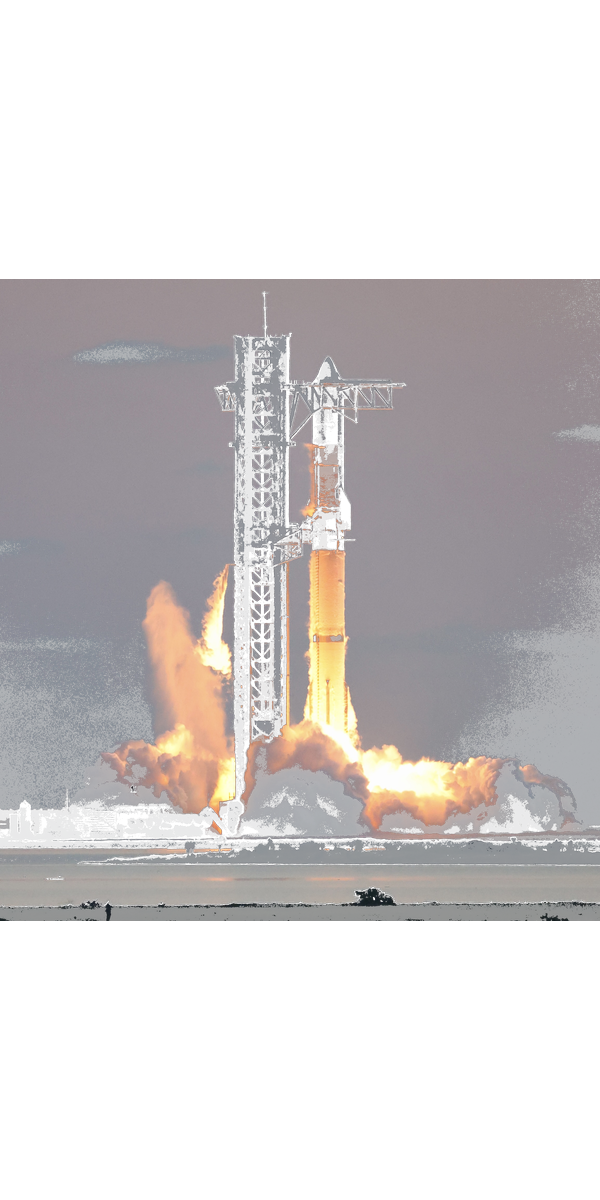
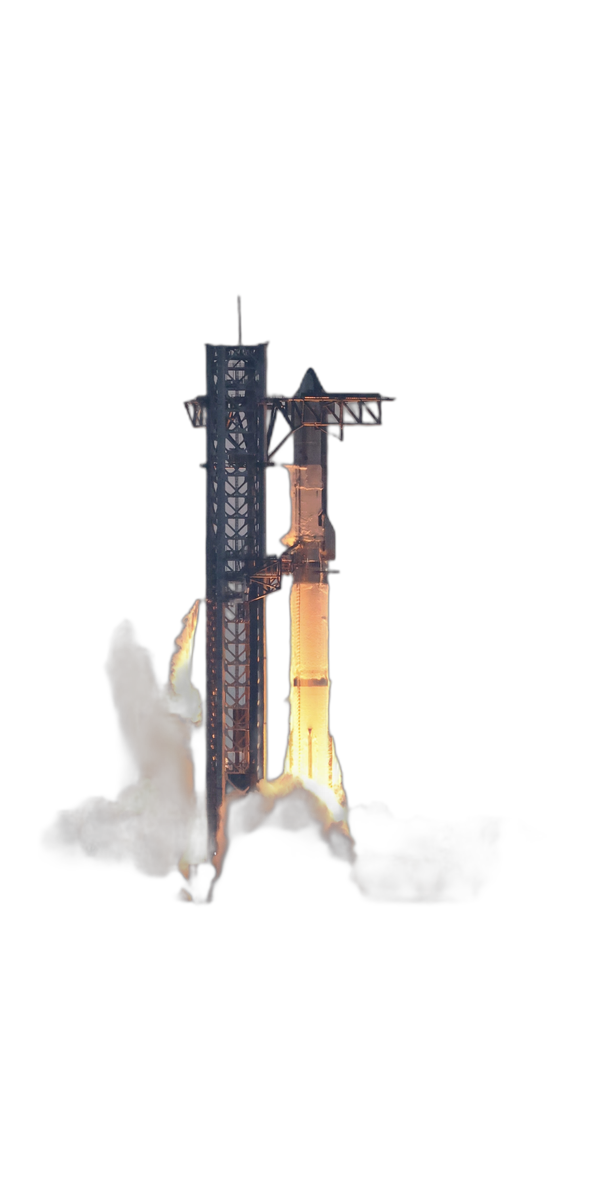
🚀 火箭照片去背 v3.7：3 個去背失敗重做
- falcon: rembg 去藍天 (25% → 75% 透明)
- block3: rembg 去水面 (47% → 86% 透明)
- mars: rembg + 火星色彩轉換 (16% → 93% 透明)

diff --git a/assets/rockets/_reprocess_v37.py b/assets/rockets/_reprocess_v37.py
@@ -1,0 +1,139 @@
+"""
+v3.7 重做 3 個去背失敗的火箭照片
+- falcon: rembg AI 去藍天
+- block3: rembg AI 去水面
+- mars: 重做色彩轉換 + rembg 去背
+"""
+from rembg import remove
+from PIL import Image, ImageEnhance, ImageFilter
+import os
+import io
+
+RAW = r'D:\game\assets\rockets\raw'
+OUT = r'D:\game\assets\rockets\processed'
+
+TARGET_W, TARGET_H = 600, 1200
+
+
+def fit_to_target(img, target_w, target_h):
+    """縮放並置中到透明畫布"""
+    if img.mode == 'RGBA':
+        alpha = img.split()[-1]
+        bbox = alpha.getbbox()
+        if bbox:
+            img = img.crop(bbox)
+    w, h = img.size
+    if w == 0 or h == 0:
+        return img
+    scale = min(target_w / w, target_h / h)
+    new_w = int(w * scale)
+    new_h = int(h * scale)
+    img = img.resize((new_w, new_h), Image.LANCZOS)
+    canvas = Image.new('RGBA', (target_w, target_h), (0, 0, 0, 0))
+    x = (target_w - new_w) // 2
+    y = (target_h - new_h) // 2
+    canvas.paste(img, (x, y), img)
+    return canvas
+
+
+# ============================================================
+# 1. FALCON - rembg AI 去藍天
+# ============================================================
+print('=== 1/3 FALCON ===')
+src = os.path.join(RAW, 'falcon9_ses10.png')
+with open(src, 'rb') as f:
+    data = f.read()
+img = Image.open(io.BytesIO(data)).convert('RGB')
+print(f'來源: {img.size}')
+try:
+    result = remove(img)
+    print('  ✅ rembg 成功')
+    result = fit_to_target(result, TARGET_W, TARGET_H)
+    result.save(os.path.join(OUT, 'rocket_falcon.png'), 'PNG', optimize=True)
+    print('  ✅ 儲存 rocket_falcon.png')
+except Exception as e:
+    print(f'  ❌ 失敗: {e}')
+
+
+# ============================================================
+# 2. BLOCK3 - rembg AI 去水面
+# ============================================================
+print()
+print('=== 2/3 BLOCK3 (IFT-5) ===')
+src = os.path.join(RAW, 'starship_ift5.jpg')
+with open(src, 'rb') as f:
+    data = f.read()
+img = Image.open(io.BytesIO(data)).convert('RGB')
+print(f'來源: {img.size}')
+try:
+    result = remove(img)
+    print('  ✅ rembg 成功')
+    result = fit_to_target(result, TARGET_W, TARGET_H)
+    result.save(os.path.join(OUT, 'rocket_starship_block3.png'), 'PNG', optimize=True)
+    print('  ✅ 儲存 rocket_starship_block3.png')
+except Exception as e:
+    print(f'  ❌ 失敗: {e}')
+
+
+# ============================================================
+# 3. MARS - 色彩轉換 + rembg 去背
+# ============================================================
+print()
+print('=== 3/3 MARS (IFT-2 火星版) ===')
+src = os.path.join(RAW, 'starship_ift2.jpg')
+with open(src, 'rb') as f:
+    data = f.read()
+img = Image.open(io.BytesIO(data)).convert('RGB')
+print(f'來源: {img.size}')
+
+# 步驟 1: rembg 去背（先去掉天空/雲）
+try:
+    img = remove(img)
+    print('  ✅ rembg 成功（先去背）')
+except Exception as e:
+    print(f'  ⚠️ rembg 失敗: {e}，改用色彩轉換')
+
+# 步驟 2: 將剩餘背景轉火星紅橘
+# 火箭本體銀色會保留，透明區域塗上紅橘色再變回透明
+# 簡化做法：直接在 RGBA 上對 RGB 通道做色彩轉換
+if img.mode == 'RGBA':
+    pixels = img.load()
+    w, h = img.size
+    for y in range(h):
+        for x in range(w):
+            r, g, b, a = pixels[x, y]
+            if a == 0:
+                # 透明區域保留透明
+                continue
+            # 識別非火箭像素：亮度高、飽和度低（雲/煙）
+            brightness = (r + g + b) / 3
+            max_c = max(r, g, b)
+            min_c = min(r, g, b)
+            saturation = (max_c - min_c) / max(max_c, 1)
+            # 灰白煙/雲特徵：亮度 > 120 且飽和度 < 0.4
+            if brightness > 100 and saturation < 0.45:
+                # 灰白 → 火星紅橘煙塵
+                nr = min(255, int(brightness * 1.4 + 40))
+                ng = min(255, int(brightness * 0.7))
+                nb = min(255, int(brightness * 0.4))
+                pixels[x, y] = (nr, ng, nb, int(a * 0.85))
+            # 藍天特徵：B > R + 20
+            elif b > r + 15 and b > g:
+                nr = min(255, int(r * 1.5 + 50))
+                ng = min(255, int(g * 0.6))
+                nb = min(255, int(b * 0.4))
+                pixels[x, y] = (nr, ng, nb, a)
+    # 增強紅橘色調
+    enhancer = ImageEnhance.Color(img)
+    img = enhancer.enhance(1.3)
+    enhancer = ImageEnhance.Contrast(img)
+    img = enhancer.enhance(1.1)
+    # 輕微模糊火星塵
+    img = img.filter(ImageFilter.GaussianBlur(radius=0.5))
+
+result = fit_to_target(img, TARGET_W, TARGET_H)
+result.save(os.path.join(OUT, 'rocket_starship_mars.png'), 'PNG', optimize=True)
+print('  ✅ 儲存 rocket_starship_mars.png')
+
+print()
+print('✅ 完成 3 個火箭 v3.7 重做')